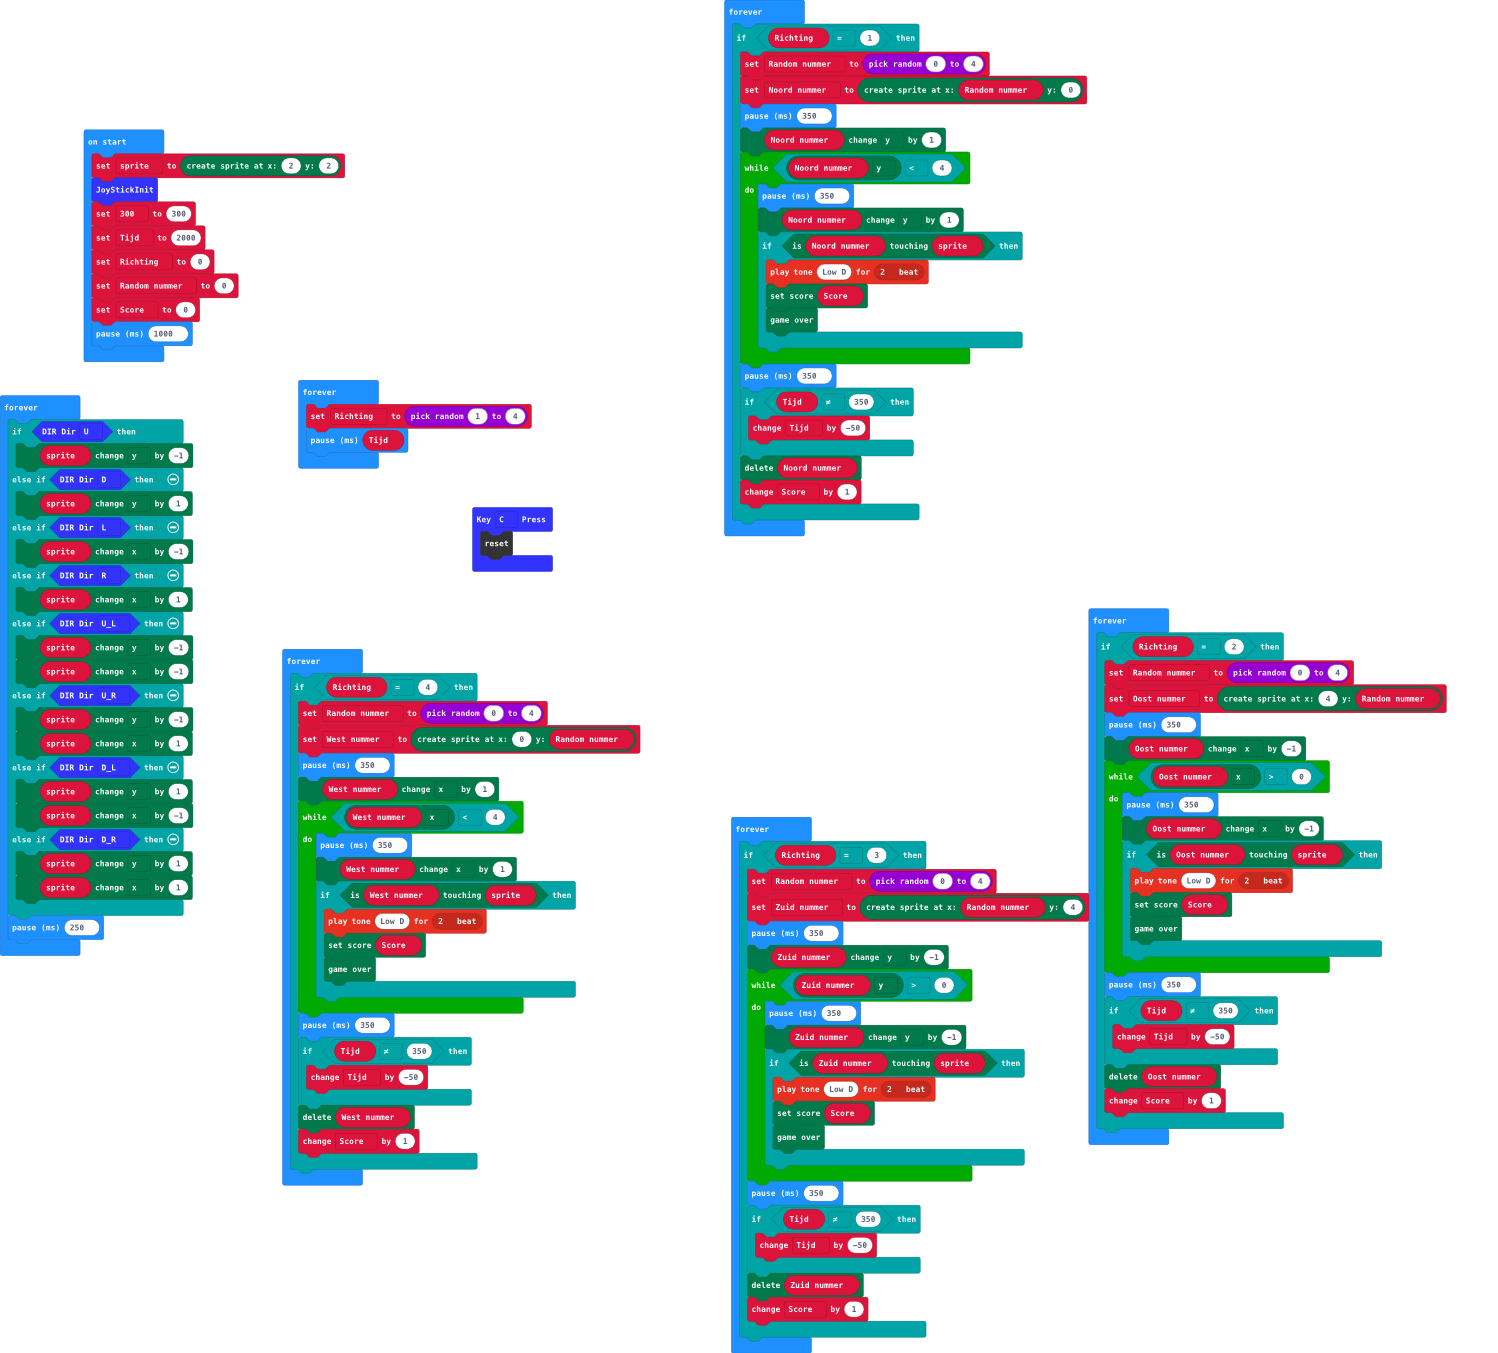
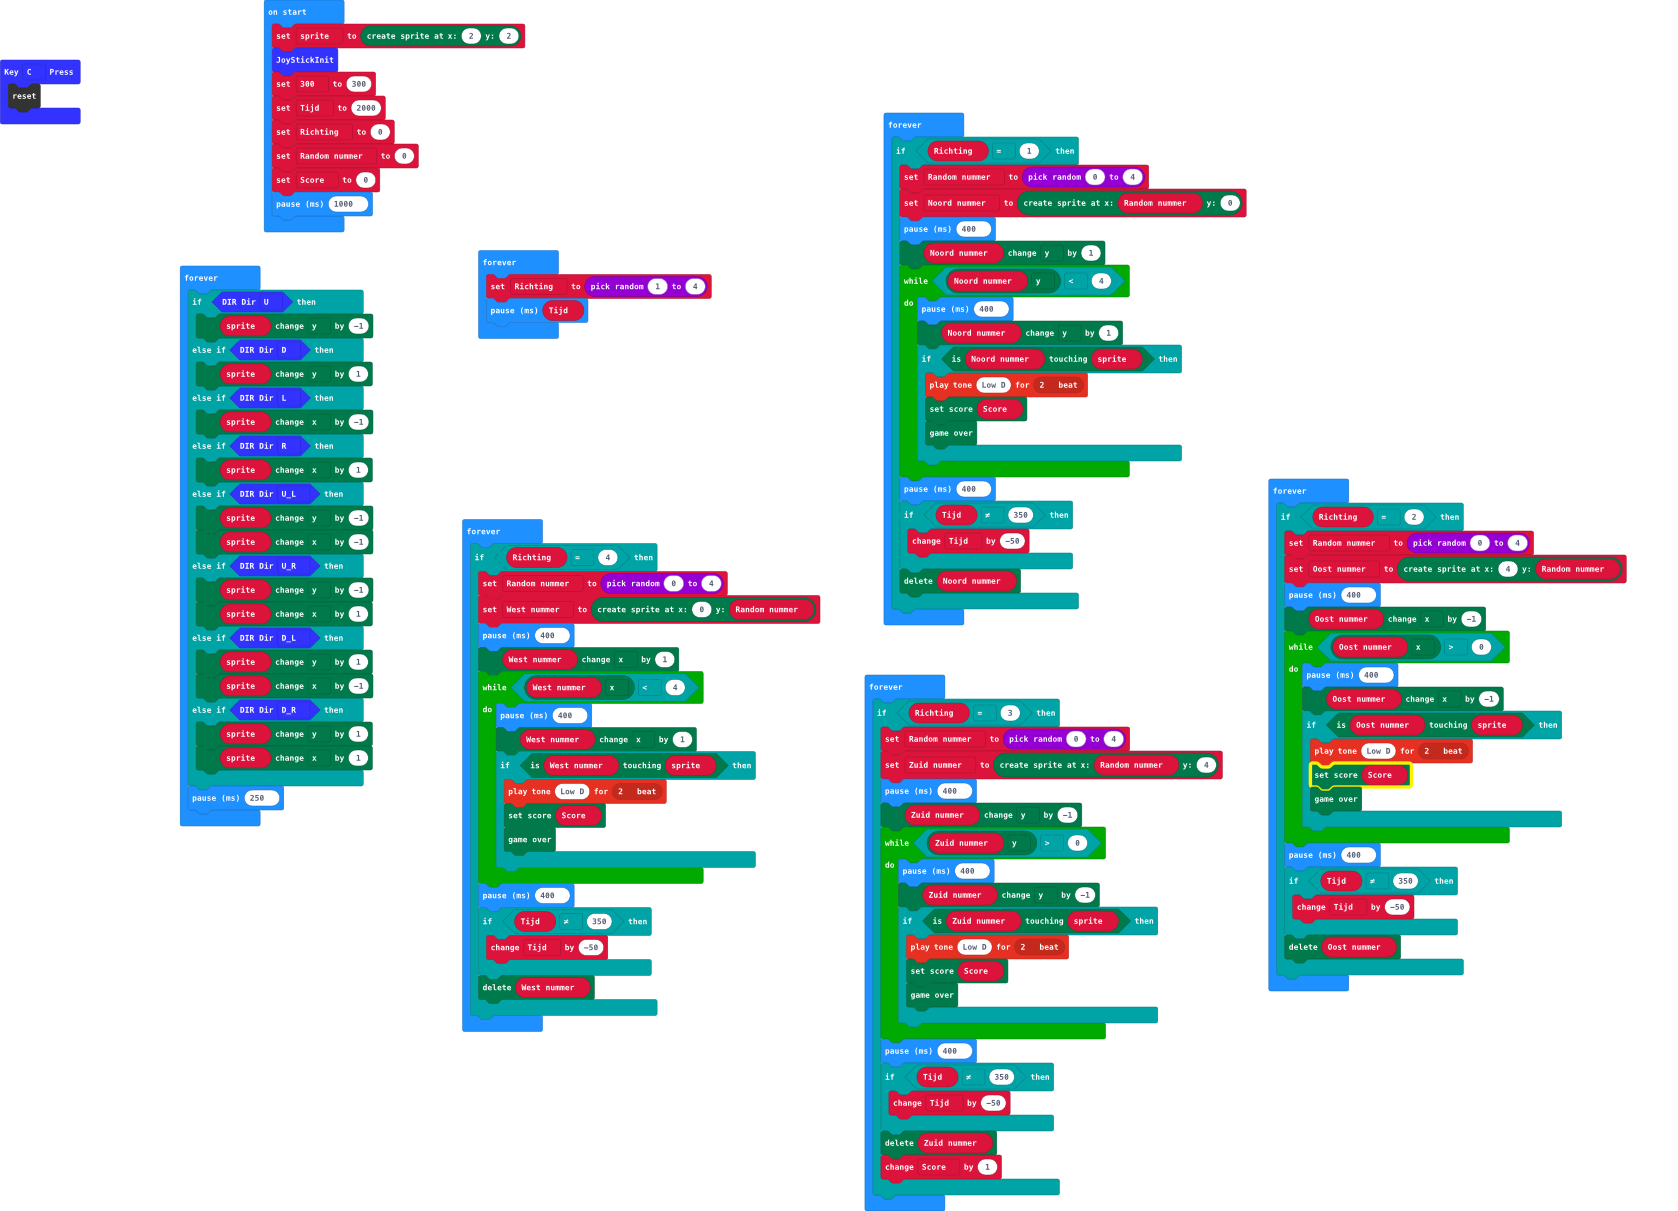
langzamere dots

diff --git a/main.ts b/main.ts
@@ -17,10 +17,10 @@ basic.forever(function () {
     if (Richting == 1) {
         Random_nummer = randint(0, 4)
         Noord_nummer = game.createSprite(Random_nummer, 0)
-        basic.pause(350)
+        basic.pause(400)
         Noord_nummer.change(LedSpriteProperty.Y, 1)
         while (Noord_nummer.get(LedSpriteProperty.Y) < 4) {
-            basic.pause(350)
+            basic.pause(400)
             Noord_nummer.change(LedSpriteProperty.Y, 1)
             if (Noord_nummer.isTouching(sprite)) {
                 music.playTone(147, music.beat(BeatFraction.Double))
@@ -28,7 +28,7 @@ basic.forever(function () {
                 game.gameOver()
             }
         }
-        basic.pause(350)
+        basic.pause(400)
         if (Tijd != 350) {
             Tijd += -50
         }
@@ -68,10 +68,10 @@ basic.forever(function () {
     if (Richting == 4) {
         Random_nummer = randint(0, 4)
         West_nummer = game.createSprite(0, Random_nummer)
-        basic.pause(350)
+        basic.pause(400)
         West_nummer.change(LedSpriteProperty.X, 1)
         while (West_nummer.get(LedSpriteProperty.X) < 4) {
-            basic.pause(350)
+            basic.pause(400)
             West_nummer.change(LedSpriteProperty.X, 1)
             if (West_nummer.isTouching(sprite)) {
                 music.playTone(147, music.beat(BeatFraction.Double))
@@ -79,7 +79,7 @@ basic.forever(function () {
                 game.gameOver()
             }
         }
-        basic.pause(350)
+        basic.pause(400)
         if (Tijd != 350) {
             Tijd += -50
         }
@@ -91,10 +91,10 @@ basic.forever(function () {
     if (Richting == 2) {
         Random_nummer = randint(0, 4)
         Oost_nummer = game.createSprite(4, Random_nummer)
-        basic.pause(350)
+        basic.pause(400)
         Oost_nummer.change(LedSpriteProperty.X, -1)
         while (Oost_nummer.get(LedSpriteProperty.X) > 0) {
-            basic.pause(350)
+            basic.pause(400)
             Oost_nummer.change(LedSpriteProperty.X, -1)
             if (Oost_nummer.isTouching(sprite)) {
                 music.playTone(147, music.beat(BeatFraction.Double))
@@ -102,7 +102,7 @@ basic.forever(function () {
                 game.gameOver()
             }
         }
-        basic.pause(350)
+        basic.pause(400)
         if (Tijd != 350) {
             Tijd += -50
         }
@@ -114,10 +114,10 @@ basic.forever(function () {
     if (Richting == 3) {
         Random_nummer = randint(0, 4)
         Zuid_nummer = game.createSprite(Random_nummer, 4)
-        basic.pause(350)
+        basic.pause(400)
         Zuid_nummer.change(LedSpriteProperty.Y, -1)
         while (Zuid_nummer.get(LedSpriteProperty.Y) > 0) {
-            basic.pause(350)
+            basic.pause(400)
             Zuid_nummer.change(LedSpriteProperty.Y, -1)
             if (Zuid_nummer.isTouching(sprite)) {
                 music.playTone(147, music.beat(BeatFraction.Double))
@@ -125,7 +125,7 @@ basic.forever(function () {
                 game.gameOver()
             }
         }
-        basic.pause(350)
+        basic.pause(400)
         if (Tijd != 350) {
             Tijd += -50
         }
